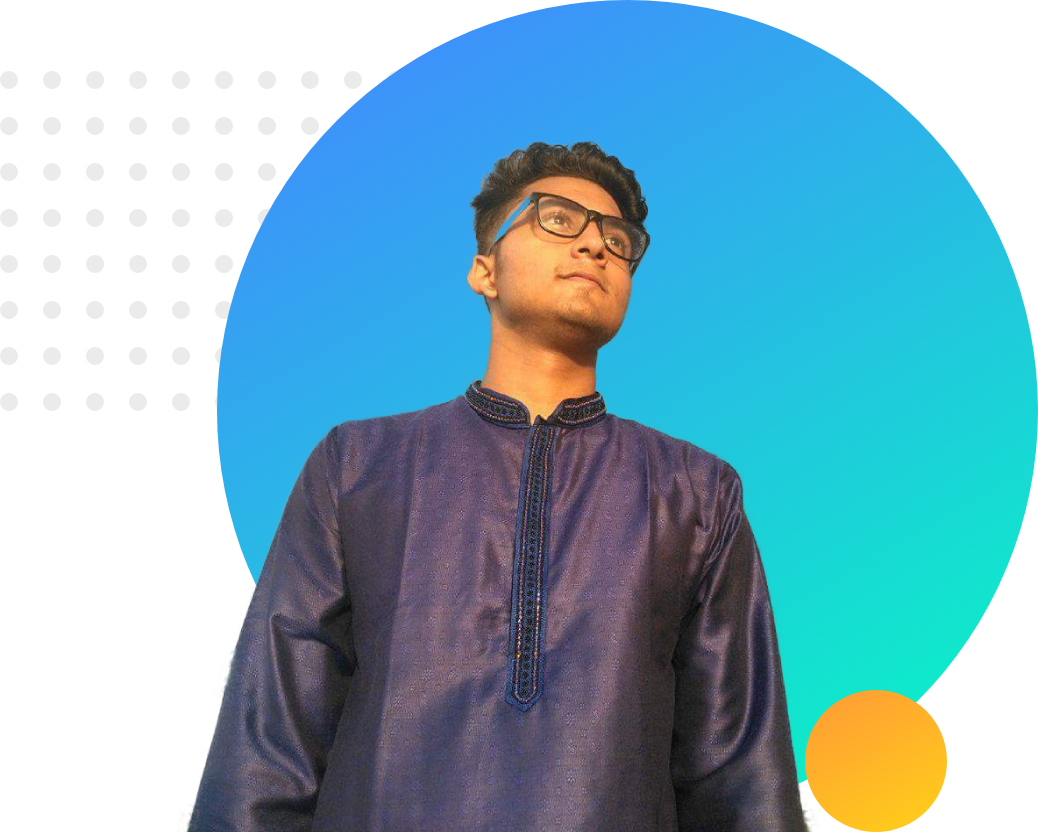
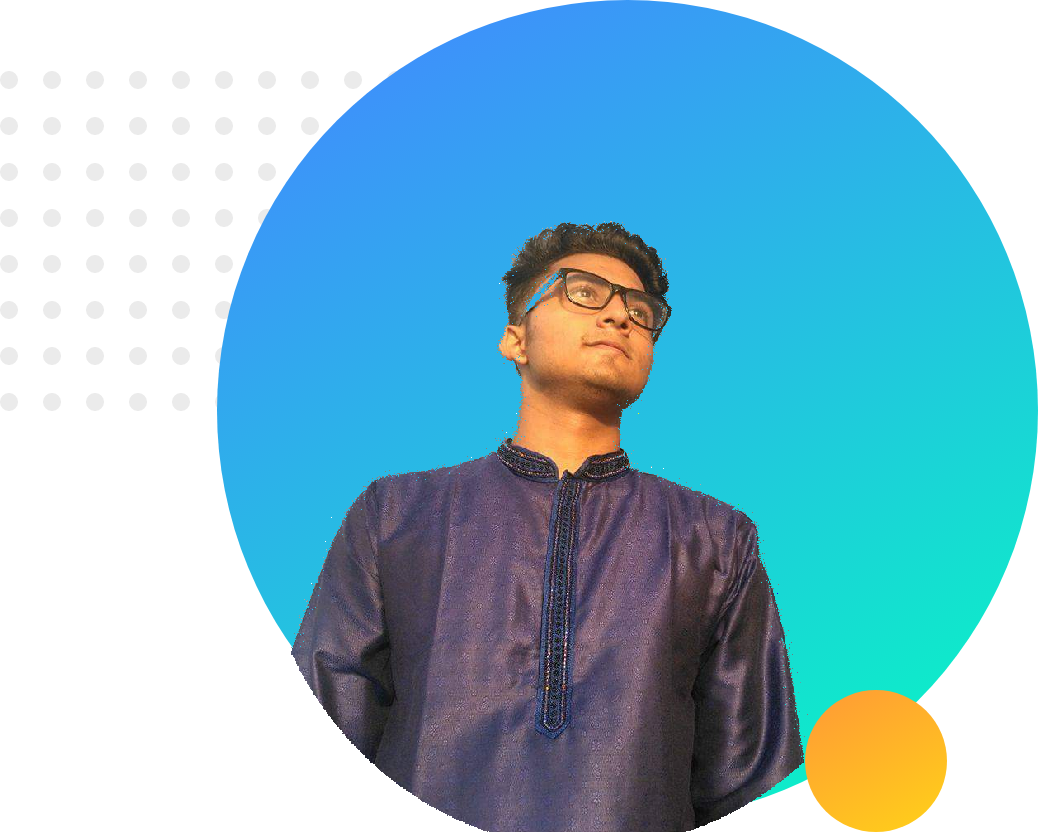
ready

Changed region(s): [[0.185, 0.1562, 0.8015, 1.0]]

diff --git a/index.html b/index.html
@@ -14,28 +14,40 @@
     <h1><span class="name-highlight" >Ajfar Sajin's</span> Website</h1>
     <h3>World Class Web Developer</h3>
     <p>During ther time of Covid-19 I used to spend my time in social media and other platforms like Youtube. After sometimes I get bored and tried to utiliz my time. Then one day I found "Programming hero web development course". This course sounds exciting to me. And after getting trainning for 14 weeks now I can introduce myself as a web developer</p>
-    <a class="link-button" target="_blank" href="https://www.facebook.com/ajfar.sajin">Facebook Profile</a>
+    <a class="link-button" target="_blank" href="https://www.linkedin.com/in/ajfar-sajin-1b77861b1/">Linkedin Profile</a>
         </div>
         <div class="half-width">
-            <img src="images/profile-1.png" alt="">
+            <img src="images/profile-2.png" alt="">
         </div>
     </section>
-    <section class="top-banner">
+    <section class="second-banner">
         <div class="half-width">
             <img src="images/profile-1.png" alt="">
         </div>
         <div class="half-width">
-            <h1>Welcome To</h1>
-    <h1><span class="name-highlight" >Ajfar Sajin's</span> Website</h1>
-    <h3>World Class Web Developer</h3>
-    <p>During ther time of Covid-19 I used to spend my time in social media and other platforms like Youtube. After sometimes I get bored and tried to utiliz my time. Then one day I found "Programming hero web development course". This course sounds exciting to me. And after getting trainning for 14 weeks now I can introduce myself as a web developer</p>
-    <a class="link-button" target="_blank" href="https://www.facebook.com/ajfar.sajin">Facebook Profile</a>
+            <h1>I believe in</h1>
+    <h1><span class="name-highlight-2" >BIG</span> Dreams</h1>
+    <h3>No dream is too big</h3>
+    <p>I have always dreamed of being the best software engineer and web developer.My long journet of fulfilling my dreams have just began.</p>
+    <a class="fb-button" target="_blank" href="https://www.facebook.com/ajfar.sajin">Facebook Profile</a>
         </div>
        
     </section>
     <section class="experience-area">
-        <div class="half-width"></div>
-        <div class="half-width"></div>
+        <h2 class="experience-text">EXPERIENCES</h2>
+        <div id="full-stack" class="half-width single-experience">
+            <h2>Full Stack Web Developer</h2>
+            <h3 class="text-highlight">2021-present | Pro Lavel Developer</h3>
+            <p></p>
+        </div>
+        <div id="baby" class="half-width single-experience">
+            <h2>Baby Web Developer</h2>
+            <h3 class="text-highlight">2020-2021 | Programming Hero Lerner</h3>
+            <p></p>
+        </div>
     </section>
 </body>
+<footer>
+    <p>© Ajfar Sajin 2021, all right reserved.</p>
+</footer>
 </html>

diff --git a/style.css b/style.css
@@ -21,8 +21,14 @@ h1{
     background-image: url(images/top-banner.png);
     background-repeat: no-repeat;
 }
+.second-banner{
+    background-image: url(images/dream-bg.png);
+    background-repeat: no-repeat;
+    background-position: right;
+}
 section{
     height: 500px;
+    padding-bottom: 150px;
 }
 .link-button{
     text-decoration: none;
@@ -30,4 +36,50 @@ section{
     color: whitesmoke;
     padding: 10px 20px;
     border-radius: 5px;
+}
+.fb-button{
+    text-decoration: none;
+    background-image: linear-gradient(45deg, orange, tomato);
+    color: whitesmoke;
+    padding: 10px 40px;
+    border-radius: 5px;
+}
+.name-highlight-2{
+    color: royalblue;
+}
+img{
+    padding-top: 30px;
+}
+.text-highlight{
+    color: orange;
+}
+.experience-text{
+    padding-left: 30px;
+}
+.single-experience{
+    box-shadow: 10px 10px 40px grey;
+    border-radius: 10px;
+    height: 80%;
+}
+.experience-area{
+    background-image: url("images/exp-bg.png");
+    background-repeat: no-repeat;
+    background-position: left;
+}
+#full-stack{
+  border-left: 7px solid;
+  border-image: linear-gradient(yellow,tomato);
+  border-image-slice: 1;  
+}
+#baby{
+    border-left: 7px solid;
+    border-image: linear-gradient(cyan, royalblue);
+    border-image-slice: 1;
+}
+footer{
+    text-align: center;
+    font-size: 12px;
+}
+p{
+    color: grey;
 }
